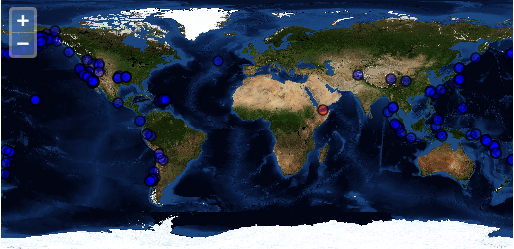
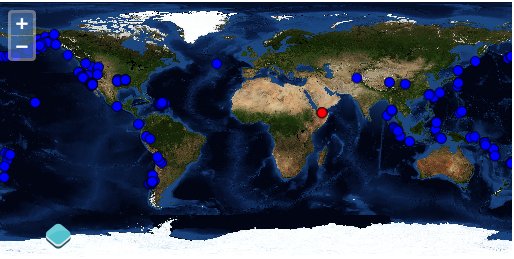
update controls section to ol3 master

diff --git a/src/select.html b/src/select.html
@@ -1,26 +1,50 @@
 <!doctype html>
 <html lang="en">
   <head>
-    <link rel="stylesheet" href="http://ol3js.org/en/master/build/ol.css" type="text/css">
+    <link rel="stylesheet" href="ol3/ol.css" type="text/css">
     <style>
       .map {
         height: 256px;
         width: 512px;
       }
     </style>
-    <script src="http://ol3js.org/en/master/build/ol.js" type="text/javascript"></script>
+    <script src="ol3/ol.js" type="text/javascript"></script>
     <title>OpenLayers 3 example</title>
   </head>
   <body>
     <h1>My Map</h1>
     <div id="map" class="map"></div>
     <script type="text/javascript">
+      var style = [new ol.style.Style({
+        image: new ol.style.Circle({
+          radius: 5,
+          fill: new ol.style.Fill({
+            color: '#0000FF'
+          }),
+          stroke: new ol.style.Stroke({
+            color: '#000000'
+          })
+        })
+      })];
+      var selectedStyle = [new ol.style.Style({
+        image: new ol.style.Circle({
+          radius: 5,
+          fill: new ol.style.Fill({
+            color: '#FF0000'
+          }),
+          stroke: new ol.style.Stroke({
+            color: '#000000'
+          })
+        })
+      })];
       var map = new ol.Map({
         interactions: ol.interaction.defaults().extend([
           new ol.interaction.Select({
-            layerFilter: function(layer) {
-              return layer.get('id') == 'vector';
-            }
+            featuresOverlay: new ol.render.FeaturesOverlay({
+              styleFunction: function(feature, layer) {
+                return selectedStyle;
+              }
+            })
           })
         ]),
         target: 'map',
@@ -36,39 +60,13 @@
           new ol.layer.Vector({
             id: 'vector',
             title: 'Earthquakes',
-            source: new ol.source.Vector({
-              parser: new ol.parser.GeoJSON(),
-              url: 'data/layers/7day-M2.5.json'
+            source: new ol.source.GeoJSON({
+              url: 'data/layers/7day-M2.5.json',
+              reprojectTo: 'EPSG:4326'
             }),
-            style: new ol.style.Style({
-              rules: [
-                new ol.style.Rule({
-                  filter: 'renderIntent("selected")',
-                  symbolizers: [
-                    new ol.style.Shape({
-                      fill: new ol.style.Fill({
-                        color: '#FF0000'
-                      }),
-                      size: 10,
-                      stroke: new ol.style.Stroke({
-                        color: '#000000'
-                      })
-                    })
-                  ]
-                })
-              ],
-              symbolizers: [
-                new ol.style.Shape({
-                  fill: new ol.style.Fill({
-                    color: '#0000FF'
-                  }),
-                  size: 10,
-                  stroke: new ol.style.Stroke({
-                    color: '#000000'
-                  })
-                })
-              ]
-            })
+            styleFunction: function(feature, resolution) {
+              return style;
+            }
           })
         ],
         view: new ol.View2D({

diff --git a/src/scaleline.html b/src/scaleline.html
@@ -1,20 +1,21 @@
 <!doctype html>
 <html lang="en">
   <head>
-    <link rel="stylesheet" href="http://ol3js.org/en/master/build/ol.css" type="text/css">
+    <link rel="stylesheet" href="ol3/ol.css" type="text/css">
     <style>
       .map {
         height: 256px;
         width: 512px;
       }
       .scale-line {
+        top: 350px;
         position: absolute;
       }
       .ol-scale-line {
         position: relative;
       }
     </style>
-    <script src="http://ol3js.org/en/master/build/ol.js" type="text/javascript"></script>
+    <script src="ol3/ol.js" type="text/javascript"></script>
     <title>OpenLayers 3 example</title>
   </head>
   <body>
@@ -25,7 +26,7 @@
       var map = new ol.Map({
         target: 'map',
         controls: ol.control.defaults().extend([
-          new ol.control.ScaleLine({target: document.getElementById('scale-line')})
+          new ol.control.ScaleLine({className: 'ol-scale-line', target: document.getElementById('scale-line')})
         ]),
         renderer: ol.RendererHint.CANVAS,
         layers: [

diff --git a/src/doc/controls/select.rst b/src/doc/controls/select.rst
@@ -15,14 +15,14 @@ Create a Vector Layer and a Select Interaction
     .. code-block:: html
 
         <!doctype html>
-          <html lang="en">
-            <head>
+        <html lang="en">
+          <head>
             <link rel="stylesheet" href="ol3/ol.css" type="text/css">
             <style>
-              .map {
-                height: 256px;
-                width: 512px;
-              }
+            .map {
+              height: 256px;
+              width: 512px;
+            }
             </style>
             <script src="ol3/ol.js" type="text/javascript"></script>
             <title>OpenLayers 3 example</title>
@@ -31,12 +31,36 @@ Create a Vector Layer and a Select Interaction
             <h1>My Map</h1>
             <div id="map" class="map"></div>
             <script type="text/javascript">
+              var style = [new ol.style.Style({
+                image: new ol.style.Circle({
+                  radius: 5,
+                  fill: new ol.style.Fill({
+                    color: '#0000FF'
+                  }),
+                  stroke: new ol.style.Stroke({
+                    color: '#000000'
+                  })
+                })
+              })];
+              var selectedStyle = [new ol.style.Style({
+                image: new ol.style.Circle({
+                  radius: 5,
+                  fill: new ol.style.Fill({
+                    color: '#FF0000'
+                  }),
+                  stroke: new ol.style.Stroke({
+                    color: '#000000'
+                  })
+                })
+              })];
               var map = new ol.Map({
                 interactions: ol.interaction.defaults().extend([
                   new ol.interaction.Select({
-                    layerFilter: function(layer) {
-                      return layer.get('id') == 'vector';
-                    }
+                    featuresOverlay: new ol.render.FeaturesOverlay({
+                      styleFunction: function(feature, layer) {
+                        return selectedStyle;
+                      }
+                    })
                   })
                 ]),
                 target: 'map',
@@ -50,41 +74,14 @@ Create a Vector Layer and a Select Interaction
                     })
                   }),
                   new ol.layer.Vector({
-                    id: 'vector',
                     title: 'Earthquakes',
-                    source: new ol.source.Vector({
-                      parser: new ol.parser.GeoJSON(),
-                      url: 'data/layers/7day-M2.5.json'
+                    source: new ol.source.GeoJSON({
+                      url: 'data/layers/7day-M2.5.json',
+                      reprojectTo: 'EPSG:4326'
                     }),
-                    style: new ol.style.Style({
-                      rules: [
-                        new ol.style.Rule({
-                          filter: 'renderIntent("selected")',
-                          symbolizers: [
-                            new ol.style.Shape({
-                              fill: new ol.style.Fill({
-                                color: '#FF0000'
-                              }),
-                              size: 10,
-                              stroke: new ol.style.Stroke({
-                                color: '#000000'
-                              })
-                            })
-                          ]
-                        })
-                      ],
-                      symbolizers: [
-                        new ol.style.Shape({
-                          fill: new ol.style.Fill({
-                            color: '#0000FF'
-                          }),
-                          size: 10,
-                          stroke: new ol.style.Stroke({
-                            color: '#000000'
-                          })
-                        })
-                      ]
-                    })
+                    styleFunction: function(feature, resolution) {
+                      return style;
+                    }
                   })
                 ],
                 view: new ol.View2D({
@@ -97,7 +94,7 @@ Create a Vector Layer and a Select Interaction
           </body>
         </html>
         
-#.  Save your changes to ``map.html`` and open the page in your browser:  @workshop_url@/map.html. To see feature selection in action, use the mouse-click to select a building:
+#.  Save your changes to ``map.html`` and open the page in your browser:  @workshop_url@/map.html. To see feature selection in action, use the mouse-click to select an earth quake:
     
     .. figure:: select1.png
    

diff --git a/src/doc/controls/scaleline.rst b/src/doc/controls/scaleline.rst
@@ -57,7 +57,7 @@ However, for the sake of this exercise, let's say you think the map viewport is 
     .. code-block:: javascript
    
         controls: ol.control.defaults().extend([
-          new ol.control.ScaleLine({target: document.getElementById('scale-line')})
+          new ol.control.ScaleLine({className: 'ol-scale-line', target: document.getElementById('scale-line')})
         ]),
 
 #.  Save your changes and open ``map.html`` in your browser: @workshop_url@/map.html    
@@ -68,6 +68,7 @@ However, for the sake of this exercise, let's say you think the map viewport is 
     
         .scale-line {
           position: absolute;
+          top: 350px;
         }
         .ol-scale-line { 
           position: relative;
